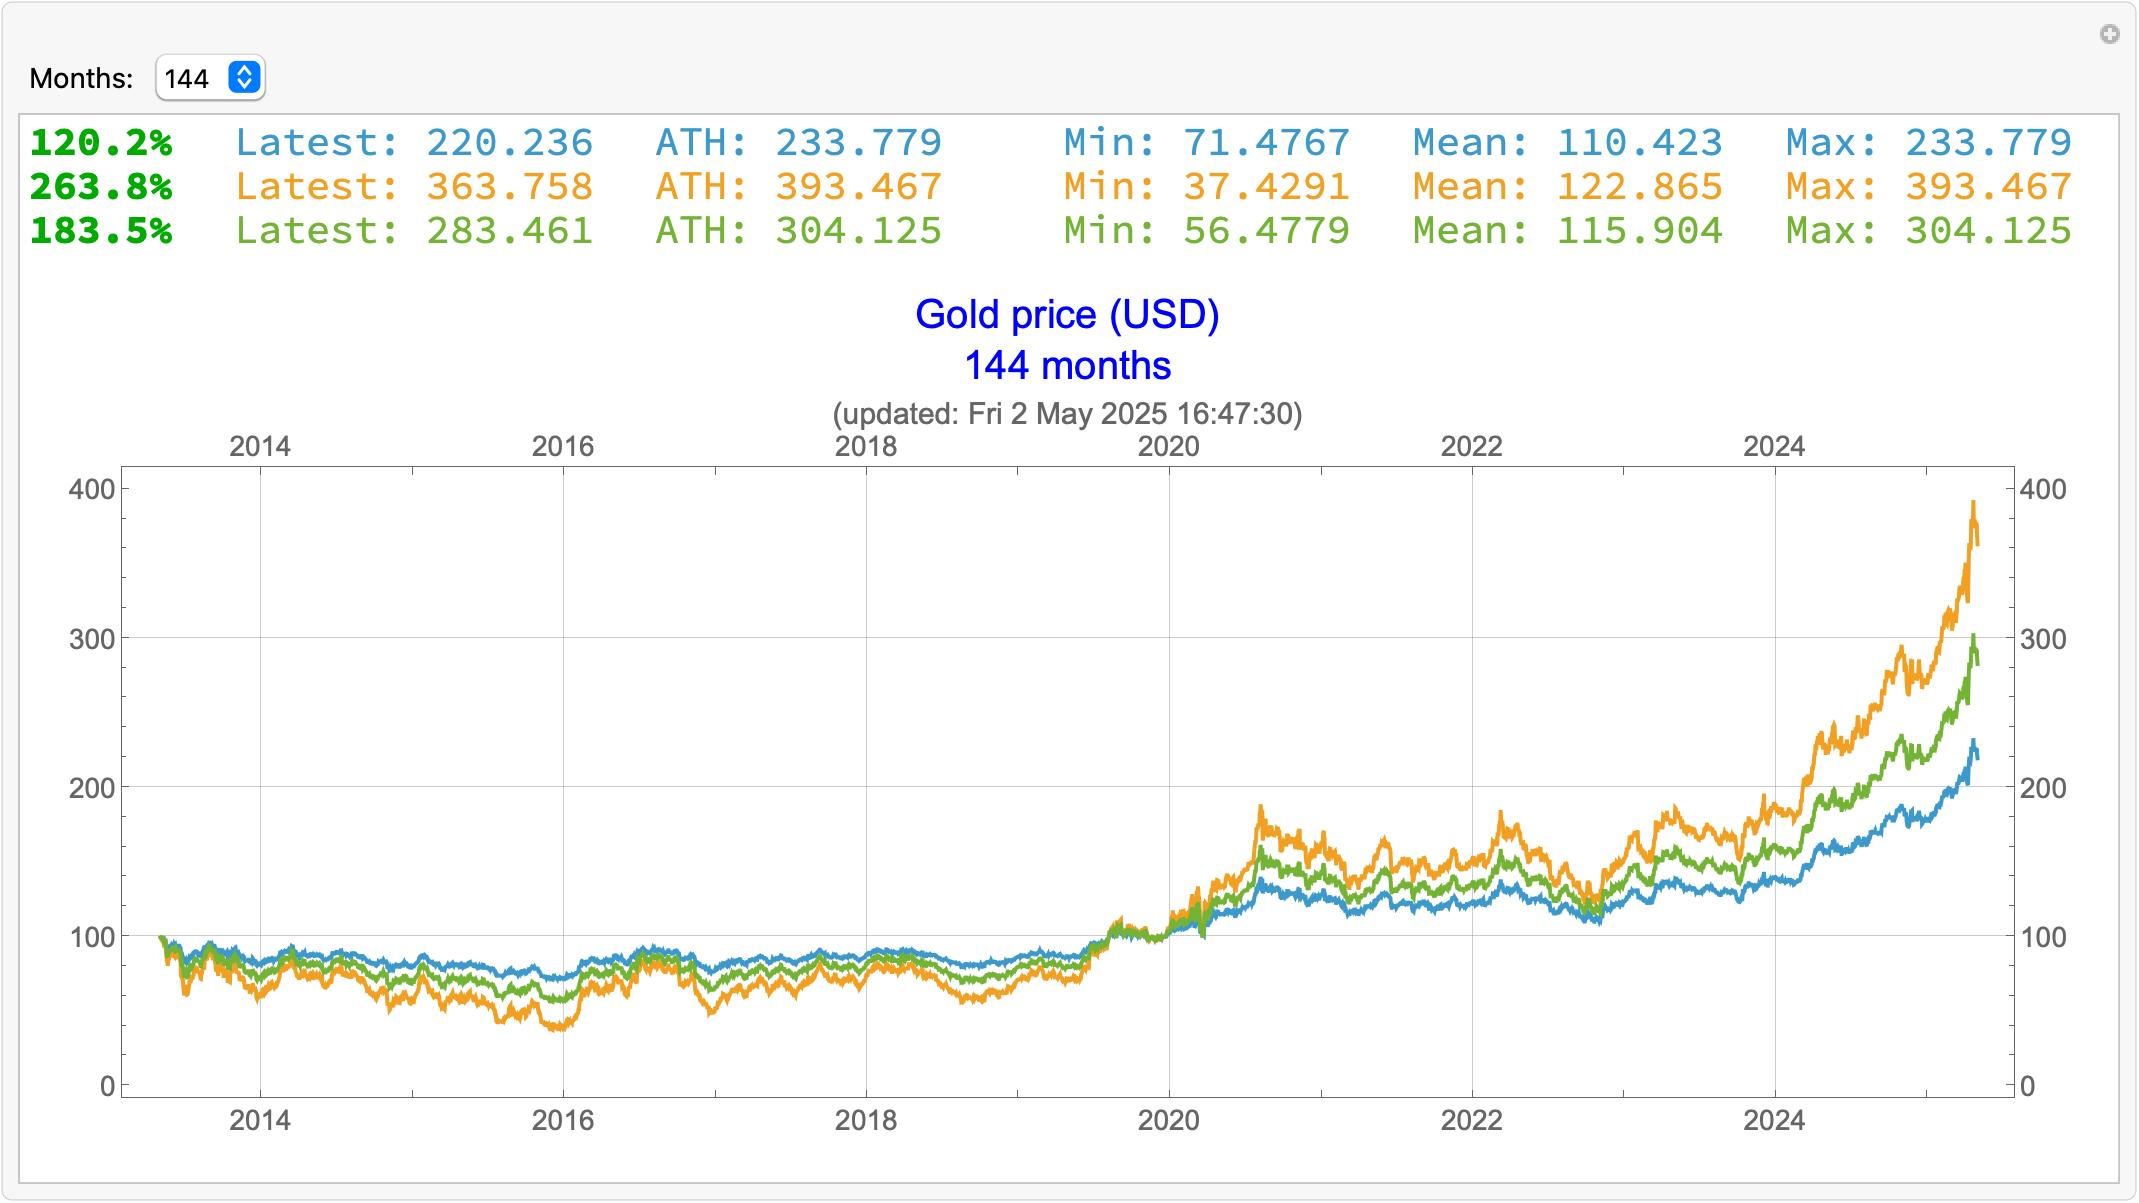
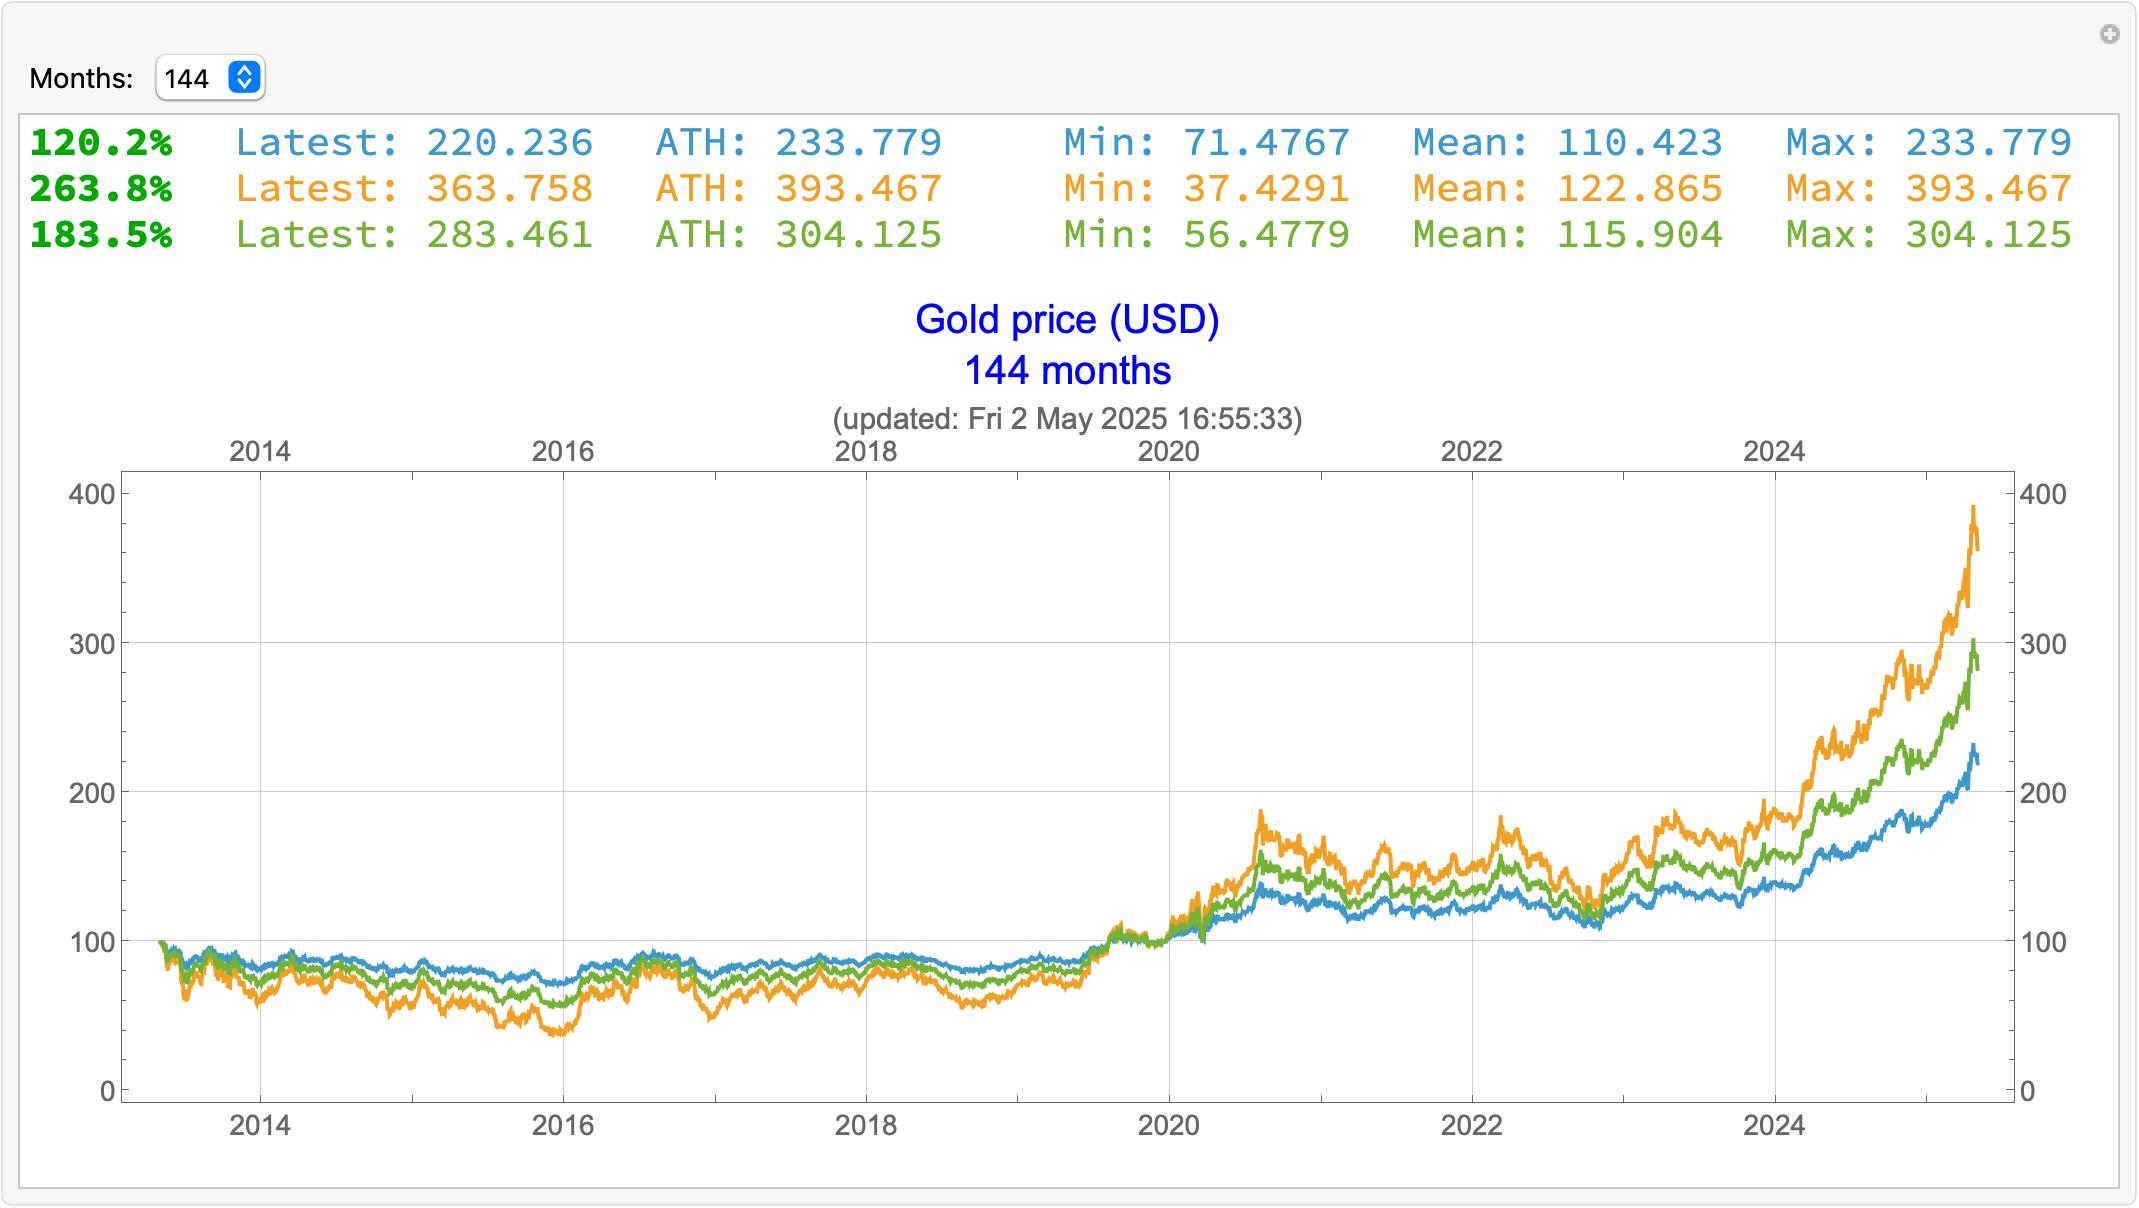
Update the readme and the sample plot code.

diff --git a/readme.md b/readme.md
@@ -3,16 +3,16 @@
 A Mathematica function to display and manipulate financial DateListPlots in a generic and flexible way.
 
 ```
-FinPlot[
-  FinancialData["XAU/USD", {1960 - 01 - 01}]
-  ,"Gold price (USD)"
-  ,<|
-    filling -> Axis
-    ,imagesize -> 1000
-    ,export -> True
-    ,origindate -> {1960-01-01}
-  |>
-]
+xauusd =FinancialData["XAU/USD",{1960-01-01}];
+xauusdplot=FinPlot[
+    {xauusd, xauusd - 800, (xauusd *0.75) - 380}
+    ,"Gold price (USD)"
+    ,<|
+        imagesize->1000
+        , normalize->True
+    |>
+];
+xauusdplot
 ```
 
 
